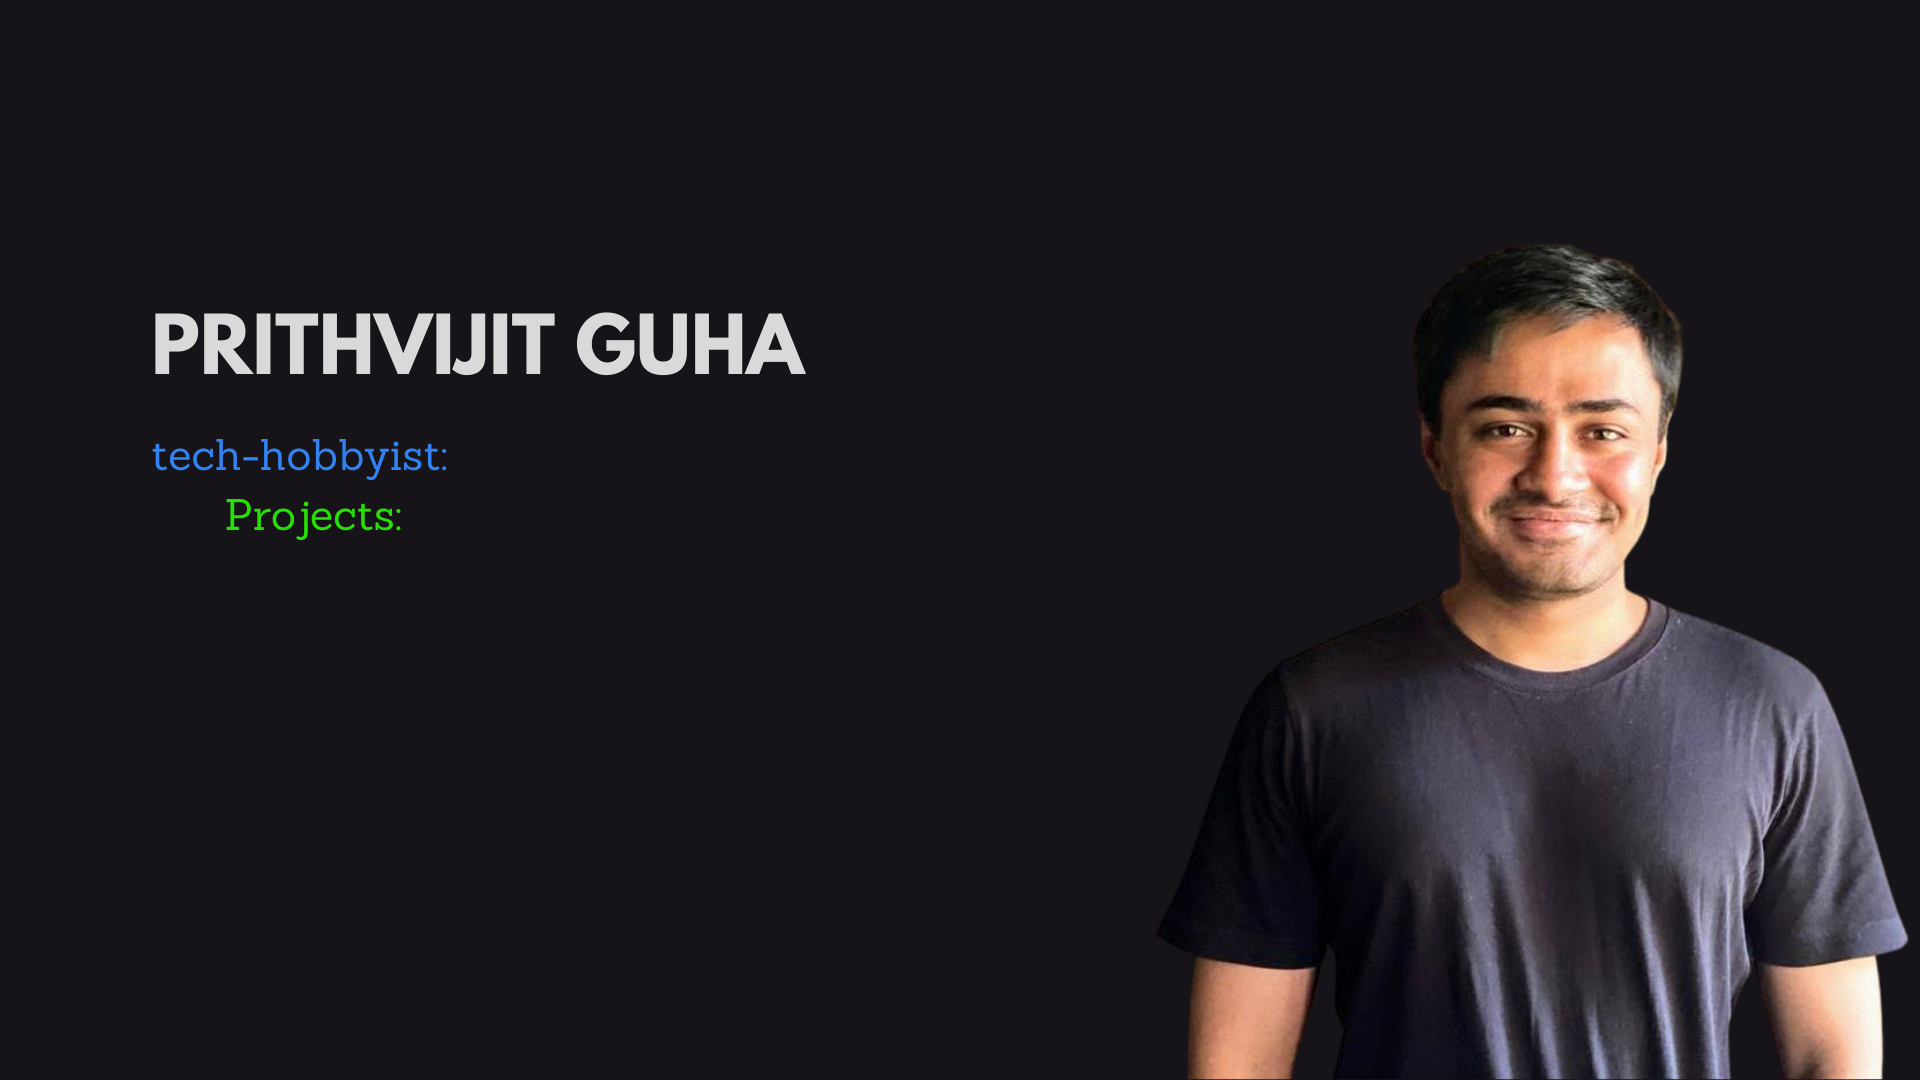
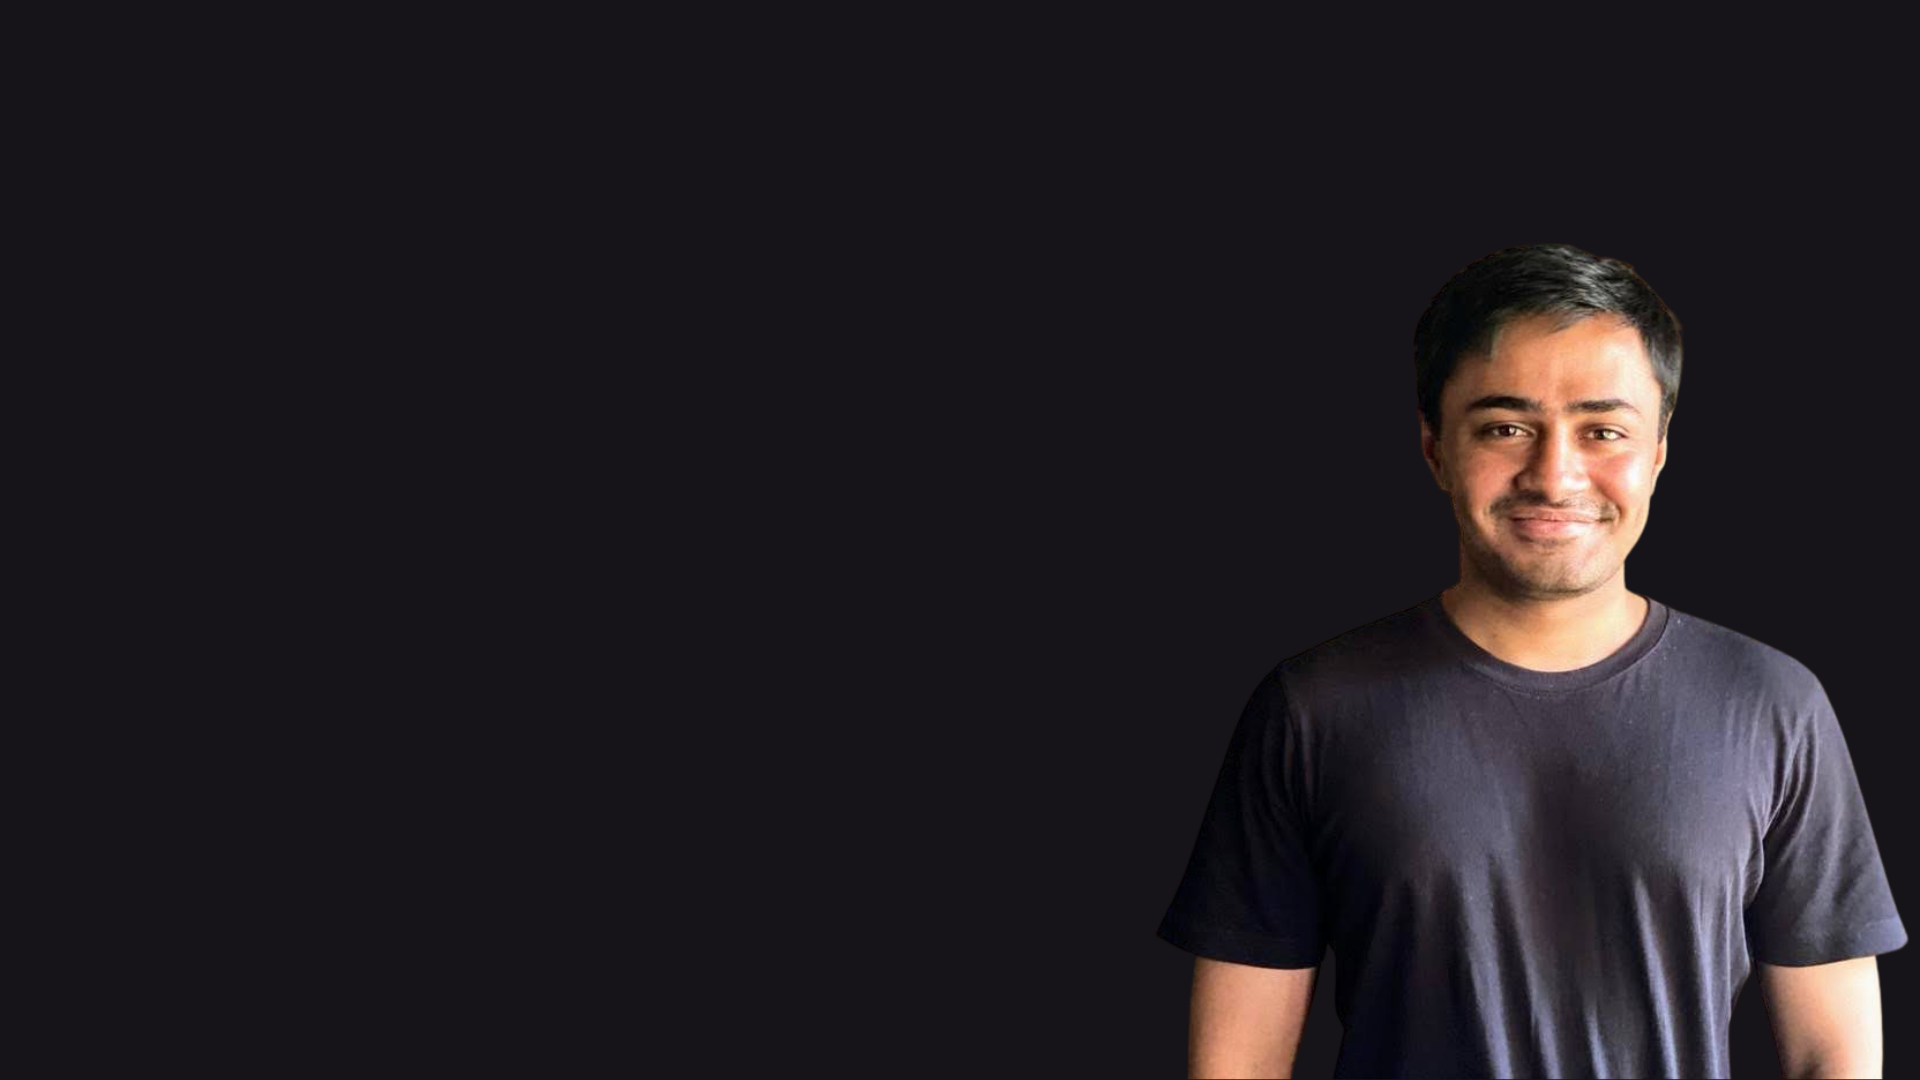
changed assets to css

Changed region(s): [[0.0625, 0.275, 0.4375, 0.3667], [0.0625, 0.3972, 0.2188, 0.4889]]

diff --git a/index.html b/index.html
@@ -12,7 +12,12 @@
         <!---font sanchez-->
         <link href='https://fonts.googleapis.com/css?family=Sanchez' rel='stylesheet'>
 
-        
+        <!---Spartan Font-->
+        <link rel="preconnect" href="https://fonts.gstatic.com">
+        <link href="https://fonts.googleapis.com/css2?family=Spartan:wght@800&display=swap" rel="stylesheet">
+
+
+
         <title>Homepage</title>            
     </head>
     <style>
@@ -39,6 +44,19 @@
         <a href="https://www.linkedin.com/in/prithvijit-guha-4a65b03a/"class="fa fa-linkedin"></a>
         <a href="https://www.youtube.com/channel/UCTAGOAw5q_HEQI40HkcW9PQ"class="fa fa-youtube"></a>
     </div>
+
+    <div class="name">
+        <p>PRITHVIJIT GUHA</p>
+    </div>
+
+    <div class="title">
+        <p>tech-enthusiast</p>
+    </div>
+
+    <div class="projects">
+        <p>Projects</p>
+    </div>
+
     <div class="text">
         <a href="https://drop-n-pic.herokuapp.com">./cloud-media-storage</li><br>
         <a href="https://cs50-finance-pj.herokuapp.com">./stock-trading-app</a>

diff --git a/styles.css b/styles.css
@@ -66,6 +66,40 @@
     top: 298px;
   }
 
+
+  .name {
+    font-family: 'Spartan', sans-serif;
+    font-size: 55px;
+    color: rgb(255, 255, 255);
+    font-weight: bold;
+    position: absolute;
+    left: 7%;
+    top: 15%;
+  }
+
+
+
+  .title {
+    font-family: 'Sanchez';
+    font-size: 28px;
+    color: rgb(12, 118, 204);
+    font-weight: bold;
+    position: absolute;
+    left: 7.8%;
+    top: 33%;
+  }
+
+  .projects {
+    font-family: 'Sanchez';
+    font-size: 28px;
+    color: rgba(154, 214, 154, 0.774);
+    font-weight: bold;
+    position: absolute;
+    left: 11.7%;
+    top: 39.5%;
+  }
+
+
   a {
     color: white;
   }
